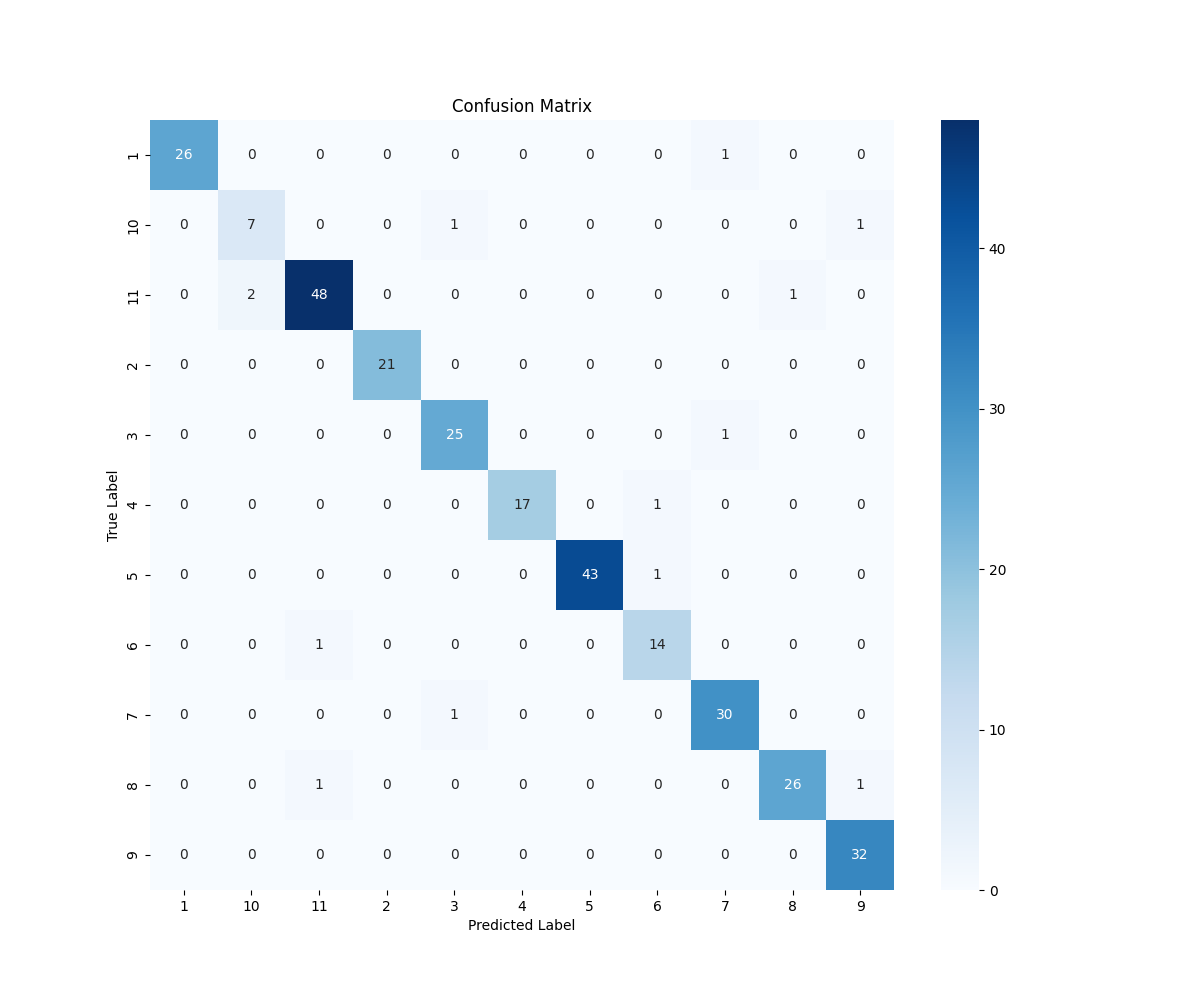
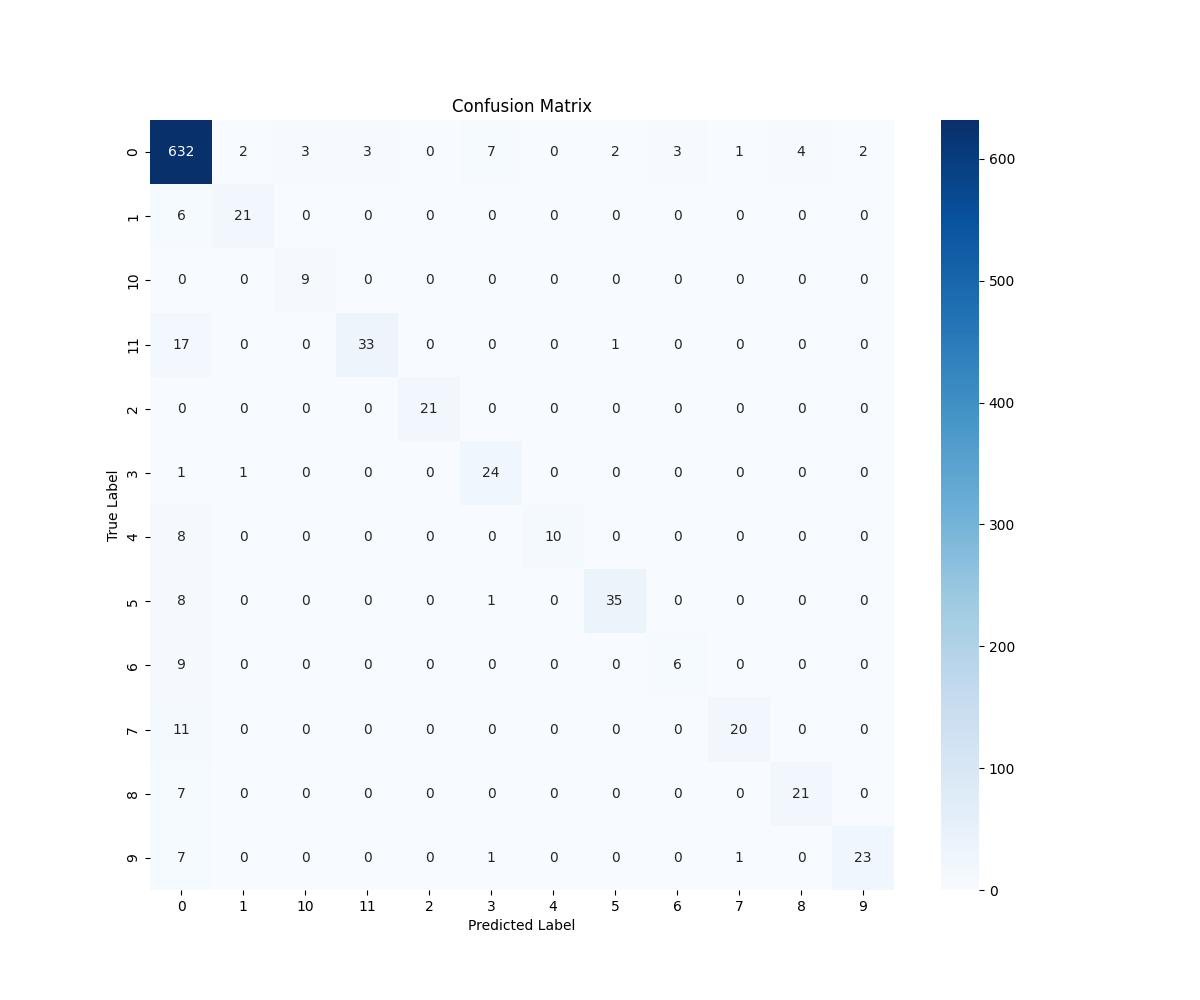
retrain with add Class 0 for invisible jersey numbers

diff --git a/docs/5.TrainImageClassification.md b/docs/5.TrainImageClassification.md
@@ -5,50 +5,50 @@
 
 ### Output:
 ```
-Số lượng lớp: 11
-Các lớp: ['1', '10', '11', '2', '3', '4', '5', '6', '7', '8', '9']
-Số lượng ảnh train: 1231
-Số lượng ảnh validation: 302
+Số lượng lớp: 12
+Các lớp: ['0', '1', '10', '11', '2', '3', '4', '5', '6', '7', '8', '9']
+Số lượng ảnh train: 3870
+Số lượng ảnh validation: 961
 ==================== BẮT ĐẦU HUẤN LUYỆN ====================
 Thiết bị: mps
 Epochs: 50, Batch size: 32, Learning rate: 0.001
 ============================================================
 
-Epoch 1/50 [Train]: 100%|██████████████████████████████████| 38/38 [00:14<00:00,  2.69it/s, loss=1.8187]
-Epoch 1/50 [Val]: 100%|████████████████████████████████████| 10/10 [00:12<00:00,  1.28s/it, loss=0.3932]
+Epoch 1/50 [Train]: 100%|████████████████████████████████| 120/120 [00:18<00:00,  6.62it/s, loss=1.4719]
+Epoch 1/50 [Val]: 100%|████████████████████████████████████| 31/31 [00:12<00:00,  2.41it/s, loss=3.3224]
 
-Epoch 1/50 - Time: 26.95s
-Train Loss: 2.1773, Train Acc: 0.2459
-Val Loss: 1.5648, Val Acc: 0.4570
-[BEST] Đã lưu model với accuracy: 0.4570
-Epoch 2/50 [Train]: 100%|██████████████████████████████████| 38/38 [00:13<00:00,  2.82it/s, loss=1.2779]
-Epoch 2/50 [Val]: 100%|████████████████████████████████████| 10/10 [00:12<00:00,  1.29s/it, loss=0.6425]
+Epoch 1/50 - Time: 30.98s
+Train Loss: 1.3758, Train Acc: 0.6766
+Val Loss: 1.2452, Val Acc: 0.6961
+[BEST] Đã lưu model với accuracy: 0.6961
+Epoch 2/50 [Train]: 100%|████████████████████████████████| 120/120 [00:17<00:00,  6.92it/s, loss=1.3482]
+Epoch 2/50 [Val]: 100%|████████████████████████████████████| 31/31 [00:12<00:00,  2.50it/s, loss=1.9259]
 
-Epoch 2/50 - Time: 26.32s
-Train Loss: 1.4553, Train Acc: 0.4967
-Val Loss: 1.2331, Val Acc: 0.5861
-[BEST] Đã lưu model với accuracy: 0.5861
+Epoch 2/50 - Time: 29.75s
+Train Loss: 1.1517, Train Acc: 0.7010
+Val Loss: 0.9825, Val Acc: 0.7263
+[BEST] Đã lưu model với accuracy: 0.7263
 
 ...
 
-Epoch 48/50 - Time: 25.43s
-Train Loss: 0.0535, Train Acc: 0.9803
-Val Loss: 0.2834, Val Acc: 0.9536
-Epoch 49/50 [Train]: 100%|█████████████████████████████████| 38/38 [00:13<00:00,  2.78it/s, loss=0.0207]
-Epoch 49/50 [Val]: 100%|███████████████████████████████████| 10/10 [00:12<00:00,  1.23s/it, loss=0.0012]
+Epoch 48/50 - Time: 29.59s
+Train Loss: 0.2065, Train Acc: 0.9211
+Val Loss: 0.3250, Val Acc: 0.8835
+Epoch 49/50 [Train]: 100%|███████████████████████████████| 120/120 [00:17<00:00,  6.98it/s, loss=0.3393]
+Epoch 49/50 [Val]: 100%|███████████████████████████████████| 31/31 [00:12<00:00,  2.49it/s, loss=0.2324]
 
-Epoch 49/50 - Time: 26.05s
-Train Loss: 0.0419, Train Acc: 0.9877
-Val Loss: 0.2780, Val Acc: 0.9536
-Epoch 50/50 [Train]: 100%|█████████████████████████████████| 38/38 [00:13<00:00,  2.82it/s, loss=0.1270]
-Epoch 50/50 [Val]: 100%|███████████████████████████████████| 10/10 [00:12<00:00,  1.21s/it, loss=0.0011]
+Epoch 49/50 - Time: 29.63s
+Train Loss: 0.1975, Train Acc: 0.9253
+Val Loss: 0.3194, Val Acc: 0.8876
+Epoch 50/50 [Train]: 100%|███████████████████████████████| 120/120 [00:17<00:00,  6.96it/s, loss=0.0626]
+Epoch 50/50 [Val]: 100%|███████████████████████████████████| 31/31 [00:12<00:00,  2.51it/s, loss=0.1391]
 
-Epoch 50/50 - Time: 25.62s
-Train Loss: 0.0588, Train Acc: 0.9794
-Val Loss: 0.2804, Val Acc: 0.9570
+Epoch 50/50 - Time: 29.63s
+Train Loss: 0.1948, Train Acc: 0.9281
+Val Loss: 0.3111, Val Acc: 0.8845
 
 ==================== HUẤN LUYỆN HOÀN TẤT ====================
-Best validation accuracy: 0.9570
+Best validation accuracy: 0.8897
 Model đã được lưu tại: ./models/classification
 ```
 
@@ -56,33 +56,34 @@ Model đã được lưu tại: ./models/classification
 
 ### Output:
 ```
-Số lượng lớp: 11
-Các lớp: ['1', '10', '11', '2', '3', '4', '5', '6', '7', '8', '9']
-Số lượng ảnh validation: 302
+Số lượng lớp: 12
+Các lớp: ['0', '1', '10', '11', '2', '3', '4', '5', '6', '7', '8', '9']
+Số lượng ảnh validation: 961
 Đã load model thành công từ: ./models/classification/best.pt
 
 Đang đánh giá model...
-Evaluating: 100%|███████████████████████████████████████████████████████| 10/10 [00:12<00:00,  1.24s/it]
-Accuracy: 0.9570
+Evaluating: 100%|███████████████████████████████████████████████████████| 31/31 [00:12<00:00,  2.47it/s]
+Accuracy: 0.8897
 
 Classification Report:
               precision    recall  f1-score   support
 
-           1       1.00      0.96      0.98        27
-          10       0.78      0.78      0.78         9
-          11       0.96      0.94      0.95        51
+           0       0.90      0.96      0.93       659
+           1       0.88      0.78      0.82        27
+          10       0.75      1.00      0.86         9
+          11       0.92      0.65      0.76        51
            2       1.00      1.00      1.00        21
-           3       0.93      0.96      0.94        26
-           4       1.00      0.94      0.97        18
-           5       1.00      0.98      0.99        44
-           6       0.88      0.93      0.90        15
-           7       0.94      0.97      0.95        31
-           8       0.96      0.93      0.95        28
-           9       0.94      1.00      0.97        32
+           3       0.73      0.92      0.81        26
+           4       1.00      0.56      0.71        18
+           5       0.92      0.80      0.85        44
+           6       0.67      0.40      0.50        15
+           7       0.91      0.65      0.75        31
+           8       0.84      0.75      0.79        28
+           9       0.92      0.72      0.81        32
 
-    accuracy                           0.96       302
-   macro avg       0.94      0.94      0.94       302
-weighted avg       0.96      0.96      0.96       302
+    accuracy                           0.89       961
+   macro avg       0.87      0.76      0.80       961
+weighted avg       0.89      0.89      0.88       961
 
 Đã lưu confusion matrix tại 'src/classification/evaluation_results/confusion_matrix.png'
 Đã lưu mẫu dự đoán tại 'src/classification/evaluation_results/prediction_samples.png'
@@ -90,37 +91,4 @@ weighted avg       0.96      0.96      0.96       302
 
 ## Đánh giá:
 
-Mô hình đạt hiệu suất rất tốt với **accuracy tổng thể là 95.7%**, điều này cho thấy mô hình đã học được cách phân biệt giữa các số áo cầu thủ một cách hiệu quả.
-
-### Hiệu suất huấn luyện
-
-- **Train Accuracy: 97.94%** - Mô hình học rất tốt trên tập huấn luyện.
-- **Val Accuracy: 95.70%** - Hiệu suất trên tập validation cũng rất cao.
-- **Chênh lệch Train-Val (2.24%)** - Sự chênh lệch nhỏ giữa train và validation accuracy cho thấy mô hình không bị overfitting nghiêm trọng.
-
-### Phân tích theo lớp
-
-1. **Hiệu suất cao nhất**:
-   - **Số áo 2**: Precision 100%, Recall 100%, F1-score 100%
-   - **Số áo 5**: Precision 100%, Recall 98%, F1-score 99%
-   - **Số áo 1**: Precision 100%, Recall 96%, F1-score 98%
-   - **Số áo 4**: Precision 100%, Recall 94%, F1-score 97%
-
-2. **Hiệu suất thấp nhất**:
-   - **Số áo 10**: Precision 78%, Recall 78%, F1-score 78%
-   - **Số áo 6**: Precision 88%, Recall 93%, F1-score 90%
-
-3. **Nhận xét**:
-   - Số áo 10 có hiệu suất thấp nhất có thể do:
-     - Số lượng mẫu ít (chỉ 9 mẫu trong tập validation)
-     - Dễ nhầm lẫn với số 1 + số 0
-   - Số áo 6 cũng có precision thấp hơn, có thể bị nhầm với số 5 hoặc số 8
-
-### Trọng số và cân bằng dữ liệu
-
-Nhìn vào số lượng mẫu trong tập validation cho mỗi lớp:
-- **Nhiều mẫu nhất**: Số áo 11 (51 mẫu), số áo 5 (44 mẫu)
-- **Ít mẫu nhất**: Số áo 10 (9 mẫu), số áo 6 (15 mẫu)
-
-Sự mất cân bằng này có thể ảnh hưởng đến hiệu suất phân loại, đặc biệt với những lớp có ít dữ liệu.
-
+Mô hình đạt hiệu suất rất tốt với **accuracy tổng thể là 88.97%**, điều này cho thấy mô hình đã học được cách phân biệt giữa các số áo cầu thủ một cách hiệu quả.
